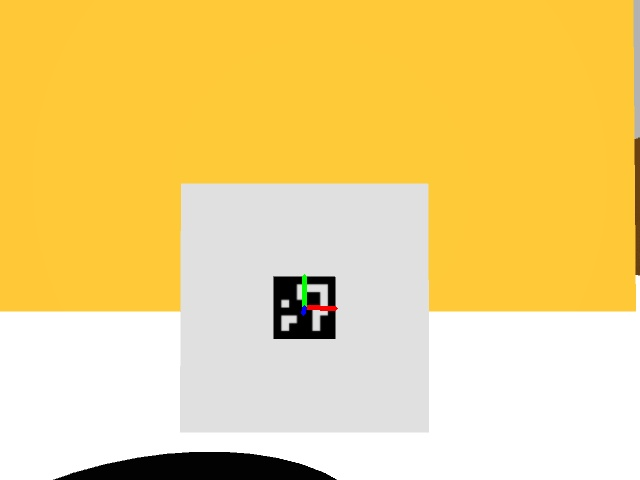
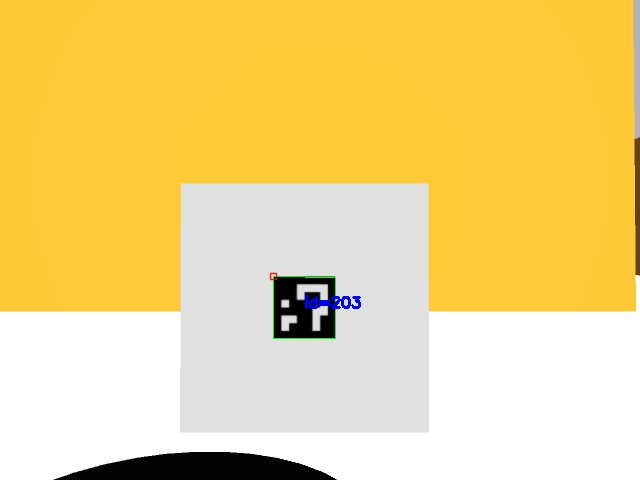
docs

Changed region(s): [[0.4062, 0.5625, 0.5625, 0.7188]]

diff --git a/aruco_ros2/src/aruco_ros2.cpp b/aruco_ros2/src/aruco_ros2.cpp
@@ -108,7 +108,7 @@ private:
 
         aruco_ros2_msgs::msg::MarkerArray marker_array;
         marker_array.header.stamp = this->get_clock()->now();
-        marker_array.header.frame_id = "map";
+        marker_array.header.frame_id = camera_frame_;
 
         try
         {

diff --git a/README.md b/README.md
@@ -1,6 +1,8 @@
 # aruco_ros2
 
-A ros2 package for [detecting ArUco markers](https://docs.opencv.org/4.x/d5/dae/tutorial_aruco_detection.html). This package has been tested in ros2 Humble, Iron, and Jazzy.
+A ros2 package for [detecting ArUco markers](https://docs.opencv.org/4.x/d5/dae/tutorial_aruco_detection.html). 
+This package provides a ros2 node that listens to a camera image topic, detects all markers using OpenCV, and publishes them as an array, including their poses relative to the camera frame.
+It has been tested in ros2 Humble, Iron, and Jazzy.
 
 ## Dependencies
 
@@ -34,28 +36,34 @@ A `MarkerArray` message is publish to the `/aruco/markers` topic
 $ ros2 topic echo /aruco/markers
 header:
   stamp:
-    sec: 1736851604
-    nanosec: 649643037
-  frame_id: map
+    sec: 178
+    nanosec: 814000000
+  frame_id: camera_rgb_optical_frame
 markers:
 - header:
     stamp:
-      sec: 3053
-      nanosec: 650000000
-    frame_id: map
-  id: 705
+      sec: 178
+      nanosec: 800000000
+    frame_id: camera_rgb_optical_frame
+  id: 203
   pose:
-    position:
-      x: 4.577914177731711
-      y: 7.3721117161966
-      z: 0.16769712996098787
-    orientation:
-      x: -0.034770853436485075
-      y: -0.7320978400370252
-      z: -0.04105639168193393
-      w: 0.6790715080655944
-  pixel_x: 353.0
-  pixel_y: 296.0
+    header:
+      stamp:
+        sec: 178
+        nanosec: 800000000
+      frame_id: camera_rgb_optical_frame
+    pose:
+      position:
+        x: -0.0258284514368117
+        y: 0.10862779162531593
+        z: 0.8941065429802411
+      orientation:
+        x: 0.9996631084061267
+        y: 0.00220962443742458
+        z: -0.003103434873084155
+        w: -0.025674032477091293
+  pixel_x: 273.0
+  pixel_y: 276.0
 ---
 ```
 
@@ -63,3 +71,29 @@ An image with the marker coord axes drawn is publish to `/aruco/result`
 
 ![Example](static/frame0000.jpg)
 ![Example](static/screenshot.jpg)
+
+The available aruco dictionaries are
+
+```
+DICT_4X4_50
+DICT_4X4_100
+DICT_4X4_250
+DICT_4X4_1000
+DICT_5X5_50
+DICT_5X5_100
+DICT_5X5_250
+DICT_5X5_1000
+DICT_6X6_50
+DICT_6X6_100
+DICT_6X6_250
+DICT_6X6_1000
+DICT_7X7_50
+DICT_7X7_100
+DICT_7X7_250
+DICT_7X7_1000
+DICT_ARUCO_ORIGINAL
+DICT_APRILTAG_16h5
+DICT_APRILTAG_25h9
+DICT_APRILTAG_36h10
+DICT_APRILTAG_36h11 
+```
